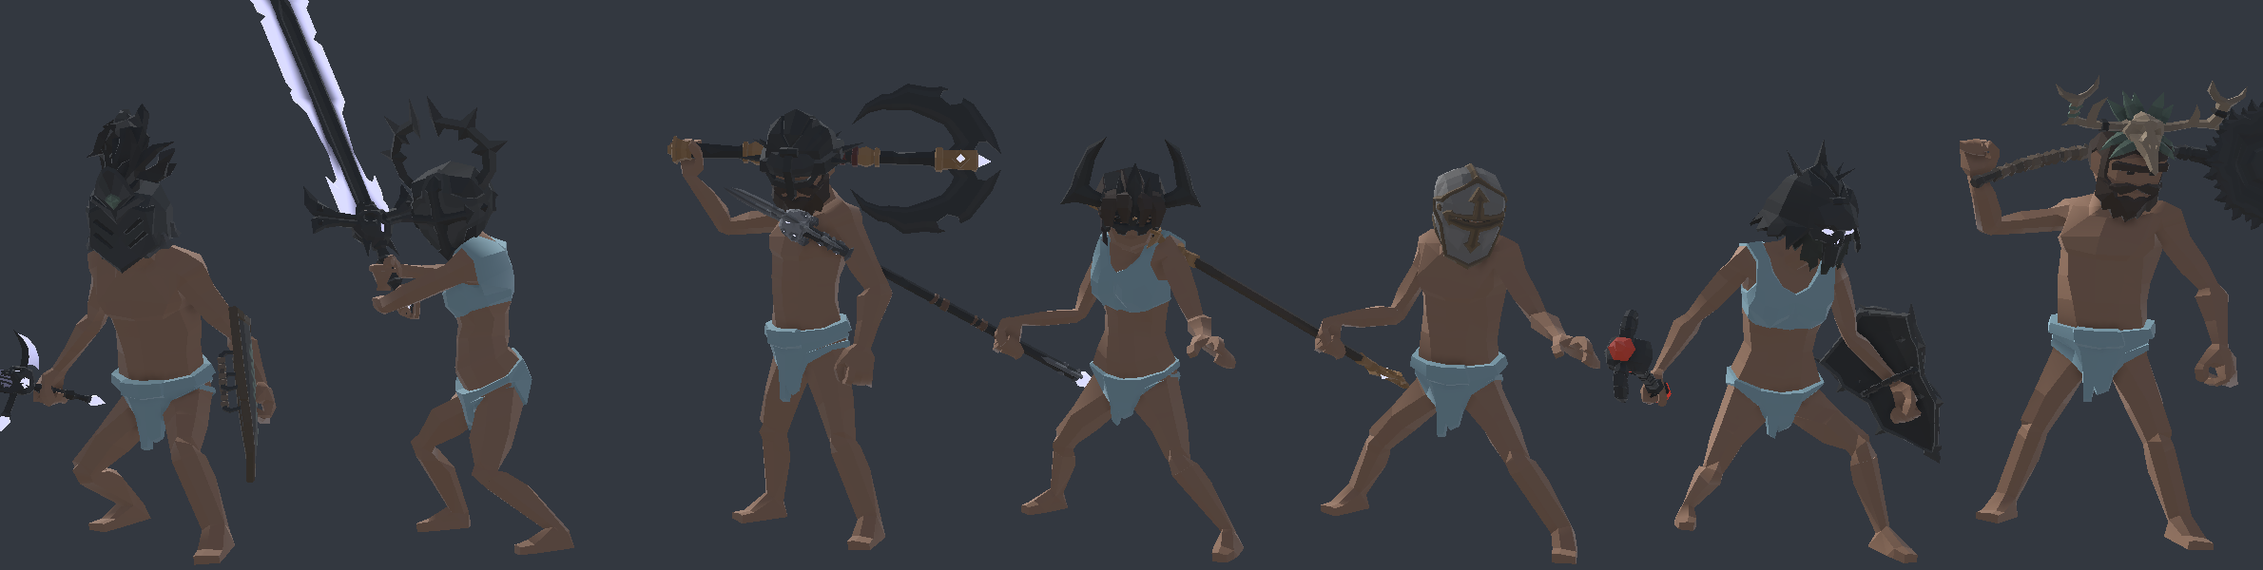
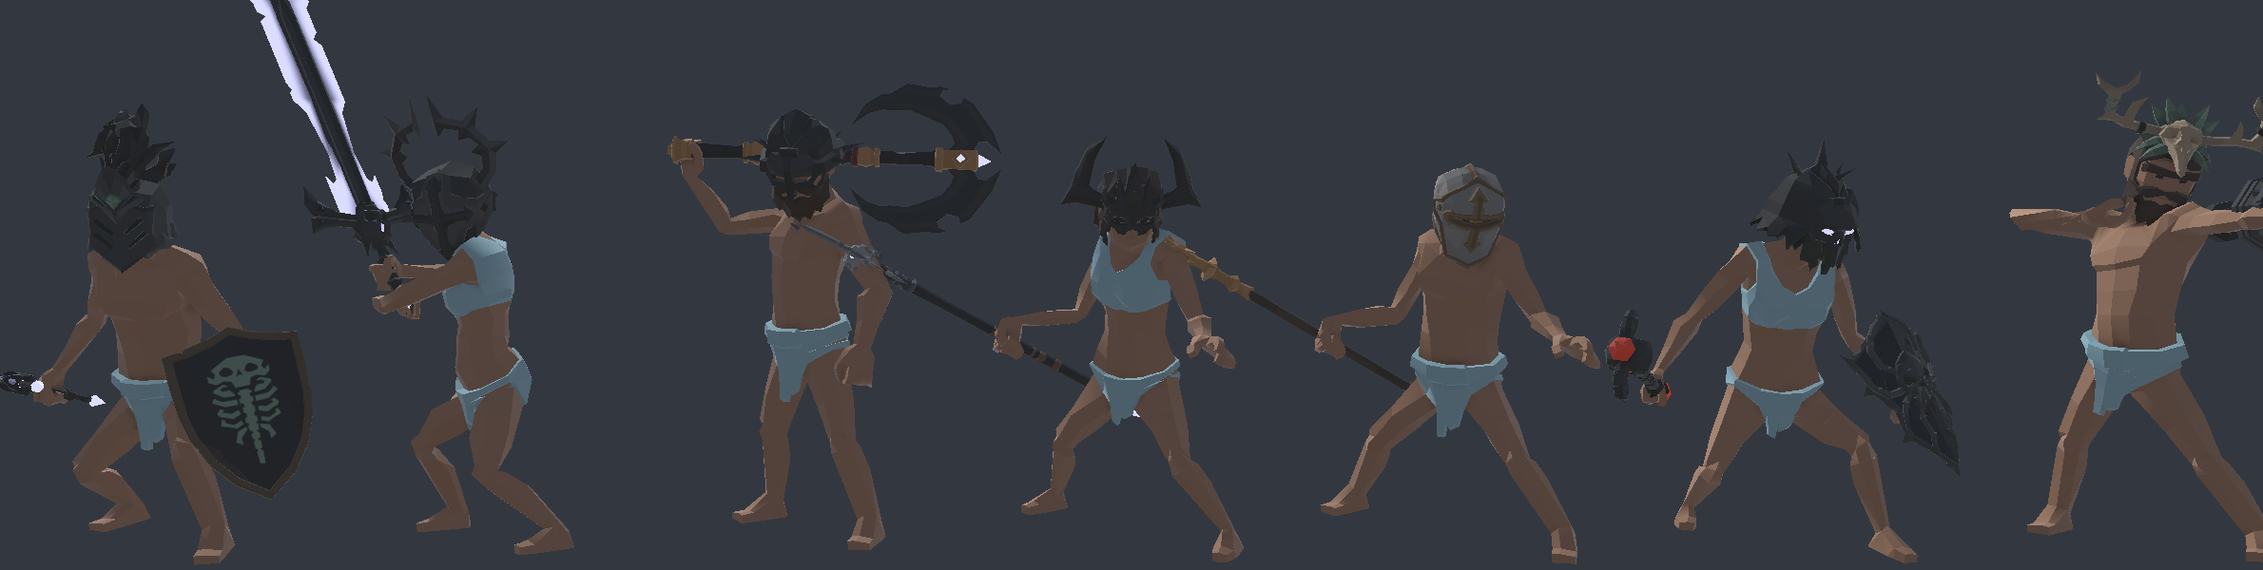
Docs: Dark Fortress round 2 (the shield fix, the four fortress bosses with names, moves, trophies and simulator numbers, the elites, the hand cannon's shot, the mirrored name tags were the capture), tower section 19, release notes and checklist, pictures

diff --git a/docs/dark-fortress-design.md b/docs/dark-fortress-design.md
@@ -19,8 +19,9 @@ Fit the pieces where they belong instead of one disconnected set:
   plus a few cosmetic finds.
 - **Weapons** fill a real gap in the weapon ladders (Atlarus at 400, Elder Bronze at 500) as a crafted **Dreadforged**
   set, and the rest are uniques: trophies of a tower boss and rare finds in the high dungeon and tower chests.
-- **Characters** become the undead of the tower's crypt and marsh floors, and the **Behemoth** becomes the floor 9
-  boss, the Gardener.
+- **Characters** become the undead of the tower's crypt and marsh floors and a few elites, and the bigger or odder ones
+  become the bosses of floors 4, 7, 8 and 9 (round 2, 2026-11-23: the Necromancer, the Colossus, the Plague Lord and
+  the Behemoth).
 
 ## 2. What became what
 
@@ -38,8 +39,12 @@ Stats follow the ladder of their type at their level, plus one fortress touch in
 | Dreadforged Battleaxe | Axe_01 | 2H axe | Attack 450 | 343 / 429 | armor penetration 6% | Crafting 463: 5 Atlarus, 2 Elder Iron |
 | Dreadforged Staff | Staff_02 | staff | Magic 450 | 390 / 390 | life steal 2% | Crafting 463: 4 Atlarus, 1 Elder Iron, 2 Shadowoak logs |
 | Dreadforged Shield | Shield_02 | shield | Defense 450 | 226 armor | thorns 4% | Crafting 464: 4 Atlarus, 1 Elder Iron |
-| Gardeners Bonesaw | Saw_01 | 2H axe | Attack 90 | 75 / 94 | poison 25% | the Gardener's trophy |
-| Rotreaper | Scythe_01 | staff | Magic 90 | 86 / 86 | poison 25% | the Gardener's trophy |
+| Bonewhistle Staff | Staff_01 | staff | Magic 40 | 34 / 34 | life steal 1.5% | Mortimer Bonewhistle's trophy (floor 4) |
+| Colossus Cleaver | Sword_02 | 2H sword | Attack 70 | 70 / 72 | armor penetration 5% | Big Gorp's trophy (floor 7) |
+| Keepward Shield | Shield_01 | shield | Defense 70 | 50 armor | thorns 3% | Big Gorp's trophy (floor 7) |
+| Blightbone Staff | Staff_02 | staff | Magic 80 | 78 / 78 | poison 25% | Lord Pestilus's trophy (floor 8) |
+| Rotbelly Bonesaw | Saw_01 | 2H axe | Attack 90 | 75 / 94 | poison 25% | Old Rotbelly's trophy (floor 9) |
+| Rotreaper | Scythe_01 | staff | Magic 90 | 86 / 86 | poison 25% | Old Rotbelly's trophy (floor 9) |
 | Skullcrusher | Club_01 | 1H (axe slot) | Attack 300 | 150 / 170 | crit damage 15% | dungeon/tower chests, tier 3, Slayer 30 |
 | Fortress Hand Cannon | Cannon_01 | bow | Ranged 500 | 470 / 480 | crit chance 5% | chests, tier 4, Slayer 50 |
 | Gravebloom Warhammer | Hammer_01 | 1H (axe slot) | Attack 650 | 357 / 404 | poison 35% | chests, tier 4, Slayer 65 |
@@ -53,8 +58,13 @@ The chest finds are `ItemDrop` rows with a weight of 0.01 (most drops are 0.05),
 from chests of tier 3 and up (the harder dungeons, tower floors 10 and up), a tier 4 find only from tier 4 chests (the
 hardest dungeons, tower floors 13 and up); the Slayer level keeps them from characters far below them.
 
+The trophies share their models with high level pieces (the pack has sixteen weapons): the Bonewhistle Staff is the
+Batwing Staff's model, the Colossus Cleaver the Dreadforged Cleaver's, the Keepward Shield the Spiked Bulwark's, the
+Blightbone Staff the Dreadforged Staff's.
+
 **Odd ones.** The **Hand Cannon** is a bow: held in the off hand it points down at rest and straight at the enemy
-when the bow is drawn, and it still shoots arrows (its description says so; the Bananarang does the same). The **saw**
+when the bow is drawn. Since round 2 it fires a cannonball, not an arrow (`CannonShot`, see "The hand cannon's shot"
+below), and its description says so ("Feed it arrows and they come out round"). The **saw**
 is a two handed axe, the **scythe** a staff (a reaper's scythe for casters). **Shield_03** is not used: it is the same
 model as Shield_02. Nothing was skipped for not fitting a weapon type.
 
@@ -63,6 +73,16 @@ attack poses of its type, next to the existing weapons of that type (the 1H axe,
 bow prefabs as reference), and seen in play on floor 9 of the tower. Scales: one handed about 0.9 to 1.15 m, two
 handed 1.4 to 1.7 m, staffs 1.75 to 1.9 m. Maces, the hammer, the battleaxe and the saw hold their grip, not their
 pivot (a child `Model` moved along the haft); the staffs are held about a third of the way up, as the game's staffs.
+
+**Shields, round 2.** The first fit used the rotation of the game's own shields, and in the one handed idle (the stance
+the game uses with a shield, Armed-Idle) the long dark kite shields hung edge-on below the hand, away from the forearm
+(docs/mockups/dark-fortress-weapons.png). The game's round shields hang the same way, but the long ones read as not
+held. Both Dark Fortress shields (the Dreadforged Shield and the Spiked Bulwark, the Keepward Shield with it) are now
+turned 90 degrees about the forearm so the face is in front of the arm, and moved out along the face and down the
+kite so the hand holds them from behind instead of through them; checked on male and female in the idle, the shield
+idle and a sword attack, and in play (docs/mockups/dark-fortress-shields.png). The **Dreadforged Sword**'s crescent
+guard now stands up and down: flat, it cut into the thigh in the idle. Every other weapon was checked again in its
+type's idle and attack from the front and the side next to the game's own: they sit as the game's do.
 
 ### Head pieces
 
@@ -85,7 +105,8 @@ Class gear (`GameData.ClassGear.cs`, a third head piece "head3" from a tier on, 
 23 items. Their model ids are empty: a game before 0.9.7 has no such prefab and shows no head piece for them.
 
 Cosmetic (category Cosmetic, worn over everything like the Santa Hat): **Thorn Crown** (Crown_01) and **Grinning
-Skull** (Mask_04) from the tier 3 chests, and the **Plague Mitre** (Crown_02) as the Gardener's trophy.
+Skull** (Mask_04) from the tier 3 chests (the Grinning Skull is also Mortimer Bonewhistle's trophy), and the
+**Plague Mitre** (Crown_02, the Plague Lord's own) as Lord Pestilus's trophy.
 
 **Not used, and why:** Helmet_01 has an undead face and hair built in (it would put a ghoul's face on the player);
 Helmet_04 (bat wings) and Helmet_05 (fanged) are made for the Colossus's forward-tilted head and the top of a player's
@@ -107,15 +128,15 @@ The website's figure (`rf-character-gear.js`) does the same with the exported pr
 mask hides the head's parts, the hair is laid flat, the helmet switch hides the prop. The cosmetic crowns (Plague
 Mitre, Thorn Crown, Grinning Skull) are cosmetics like the Santa Hat and do not lay the hair flat.
 
-## 3. Enemies and the test boss
+## 3. Enemies and bosses
 
 `tools/dark-fortress/dark-fortress-enemies.cs` makes one prefab per kind in `Assets/World/Enemies/DarkFortress` and one
 `EnemyDefinitionAsset` per kind (`df-*.asset`): MainWorld's Ravebridge skeleton (its EnemyController, movement,
 colliders and the Humanoid Enemy animator) with the skeleton's bodies taken out and a Dark Fortress character put in,
 its avatar on the animator. The humanoid enemy animations (idle, run, unarmed attack, get hit, death, cheer) play on all
 of them, the Behemoth's bigger skeleton (BR_CharactersAvatar) included; checked in poses and in play.
-`dark-fortress-templates.cs` puts them into the tower layouts' hidden templates (the crypt and marsh builders do the same
-when they rebuild).
+`dark-fortress-templates.cs` puts them into the tower layouts' hidden templates (the crypt, marsh and overgrown builders
+do the same when they rebuild).
 
 | Model id | Character | Name in the tower | Floors | Level | Style |
 |---|---|---|---|---|---|
@@ -125,29 +146,72 @@ when they rebuild).
 | df-plague | Plague_01 | Plague Walker | 8 | floor + 1 | melee, 1.1 s |
 | df-corpse | Corpse_01 | Shambling Corpse | 9 | floor - 1 | melee, 1.3 s |
 | df-wraith | Wraith_01 | Crypt Wraith | 9 | floor + 1 | magic, 1.4 s |
-| df-behemoth | Behemoth_01 | The Gardener (boss) | 9 | the boss's | magic, poison |
+| df-apothecary | Apothecary_01 | Bog Apothecary (elite) | 3 | floor + 1 | magic, 1.3 s |
+| df-barbarian | Barbarian_01 | Antlered Reaver (elite) | 5 | floor + 2 | melee, 1.1 s |
+| df-inquisitor | Inquisitor_01 | Fallen Inquisitor (elite) | 10 | floor + 3 | magic, 1.3 s |
+| df-necromancer | Necromancer_01 | Mortimer Bonewhistle (boss) | 4 | the boss's | magic |
+| df-colossus | Colossus_01 | Big Gorp, the Keep Colossus (boss) | 7 | the boss's | melee |
+| df-plague-lord | Plague_Lord_01 | Lord Pestilus (boss) | 8 | the boss's | magic, poison |
+| df-behemoth | Behemoth_01 | Old Rotbelly (boss) | 9 | the boss's | magic, poison |
 
 Their numbers come from the floor (level, power, armor, the band's element), as every tower monster's, so the floors
 are as hard as before; the offsets are those of similar monsters (the red Metalon is +4). What changed in
 `RavenNest.Combat/Tower.cs`:
 
-- Floor 4, Hall of Bones: skeletons, Risen Dead and Risen Soldiers (quests: 40 skeletons, 30 Risen Dead).
+- Floor 3, The Nest: Bog Apothecaries join the green Metalons and goblins (quests unchanged).
+- Floor 4, Hall of Bones: Risen Dead, skeletons and Risen Soldiers (quests: 40 skeletons, 30 Risen Dead).
+- Floor 5, Thornwood: Antlered Reavers join the purple Metalons and goblins (quests unchanged).
 - Floor 7, Goblin Keep: Grave Knights join the goblins and skeletons (quests unchanged).
-- Floor 8, Blighted Grove: red Metalons, Plague Walkers and purple Metalons (quests: 40 red Metalons, 40 Plague Walkers).
+- Floor 8, Blighted Grove: Plague Walkers, red Metalons and purple Metalons (quests: 40 red Metalons, 40 Plague Walkers).
 - Floor 9, The Deep Roots: Shambling Corpses, Crypt Wraiths and red Metalons (quests: 45 corpses, 45 wraiths).
+- Floor 10, The Verdant Throne: Fallen Inquisitors join the red and purple Metalons (quests unchanged).
 
-**The Gardener is the Behemoth now** (it was a skeleton made 2.8 times bigger): the same fight, numbers and line
-("Everything grows. Even you, in time."): magic, poison, a spit every 4 swings, help at two thirds and one third (three
-Shambling Corpses each time), the slam, the enrage. Scale 2.3, about twice a player's height (1.5 looked like a big
-player, checked in play). Its intro taunt is Cheer3 (`tools/tower/tower-boss-taunts.cs`; Resources/Tower/Boss Taunts
-was remade). The Colossus was not needed: the Behemoth plays the animations well.
+**The bosses** (band 1; each reuses the tower's boss moves: help called at shares of its health, the slam ring, the
+marked spit circle, the enrage). The smaller, odder looking characters (Inquisitor, Barbarian, Apothecary) are elites
+on the floors; the big or unique ones are bosses. Each boss slot they took was a reused look before (a big skeleton, a
+big goblin, a big Metalon), so band 1 keeps its bunny, goblin, Metalon, cow and dragon bosses on the other floors.
 
-**Trophies** (`TowerBoss.Trophies`, new): on the stream's first clear of the floor, each player who fought has a 1 in
-4 chance (`TowerLoot.TrophyChance`) of one of the boss's trophies: the Gardener gives the Gardeners Bonesaw, the
-Rotreaper or the Plague Mitre (`GameManager.RollTowerTrophies`). Any boss can get trophies by naming Dark Fortress items.
+| Floor | Boss | Was | Fight | Line | Trophies |
+|---|---|---|---|---|---|
+| 4 Hall of Bones | **Mortimer Bonewhistle**, the Necromancer, scale 2.2 | the Rootbound King | a caster; raises three Risen Dead at three quarters, half and a quarter of its health; a spit every 5 swings; no slam | "Rise, my darlings. Supper has arrived." | Bonewhistle Staff, Grinning Skull |
+| 7 Goblin Keep | **Big Gorp, the Keep Colossus**, scale 2.4 | King Grubnose the Second | slow, heavy swings (3 s); a ground slam every third swing; the keep's goblins (four) come at half its health | "King Grubnose says: no visitors." | Colossus Cleaver, Keepward Shield |
+| 8 Blighted Grove | **Lord Pestilus**, the Plague Lord, scale 2.3 | Redshell the Blighted | a caster of poison (60%); a poison cloud (the marked spit circle, 1.3 times a hit) every third swing; Plague Walkers at half its health | "Breathe deep, little ones. It is good for you." | Plague Mitre, Blightbone Staff |
+| 9 The Deep Roots | **Old Rotbelly**, the Behemoth, scale 2.3 | the Gardener (a big skeleton) | unchanged since round 1: magic, poison, a spit every 4 swings, Shambling Corpses at two thirds and one third | "Fresh compost! Come closer. Closer." | Rotbelly Bonesaw, Rotreaper |
 
-Not made (yet): Inquisitor, Necromancer, Apothecary, Barbarian, Colossus and Plague Lord as enemies or mini bosses.
-They are one row each in the enemy builder; the Plague Lord and the Colossus would make good band bosses.
+Their numbers were set with the simulator's `tower` scenario so the floors stay about as hard as with the bosses they
+replaced (five players at the floor's level, win rate old to new): floor 4 77% to 67%, floor 7 72% to 85%, floor 8
+10% to 15%; floor 9 is unchanged. Scales were checked in play: at 1.5 to 2.0 they read as big players. Intro taunts:
+Cheer2 (Necromancer), Cheer3 (Colossus, Behemoth), Cheer1 (Plague Lord) in `tools/tower/tower-boss-taunts.cs`.
+
+**Trophies** (`TowerBoss.Trophies`): on the stream's first clear of the floor, each player who fought has a 1 in 4
+chance (`TowerLoot.TrophyChance`) of one of the boss's trophies (`GameManager.RollTowerTrophies`). Any boss can get
+trophies by naming Dark Fortress items.
+
+Not used as enemies: the Knight's body armor is the armor test cut; the Colossus's and Behemoth's bigger skeletons play
+the humanoid animations as well as the others.
+
+### The hand cannon's shot
+
+`CannonShot` (Game/Combat), called where the ranged attack's arrow is shot (`EffectHandler.ShootRangedProjectile`):
+when the ranged weapon in the hand is a cannon (its prefab path), no arrow flies. Instead:
+
+- a flash (a short burst of orange sparks) and a puff of grey smoke at the muzzle (the end of the barrel that points
+  at the target), and the cannon kicks back 12 cm along the barrel and settles in 0.18 s;
+- a boom: `SoundKind.CannonShot`, two clips in Assets/Sounds/Effects/CannonShot made from the Environment Sounds pack's
+  thunder with a rock impact on the attack (ffmpeg, nothing downloaded; local like the other effect sounds);
+- an iron ball (the cannon's own material) flies in a low arc to the target;
+- where it lands, a puff of dust and the pack's rock impact.
+
+The hit itself is the bow's as before (the arrow was only a picture too). The flash, smoke and dust follow the Weapon
+effects setting and potato mode like the weapons' element effects; the ball and the sounds stay. Particle systems are
+made once per player and emitted in bursts. Checked in play (docs/mockups/dark-fortress-cannon.png).
+
+### Mirrored name tags (round 2)
+
+The backwards name tags in the first boss capture came from the capture, not the game: name tags turn to the game
+camera every frame (`NameTag`, `GameCamera.Rotation`), and that capture was rendered by a second camera from the
+other side. In the game's own view (and in captures from the game camera's side, as all round 2 captures are) they
+read the right way. Nothing changed in the game for it.
 
 ## 4. Icons and the website
 
@@ -176,17 +240,28 @@ Inquisitor Helm and the horned skull in its place; the Dreadforged Sword, Cleave
 Hellhorn Mace in a fight); all enemies on tower floor 9 (idle, walking, attacking, getting hit, dying) and a full boss fight
 against the Gardener with four bots (slam ring, poison spit, adds, it fell); the icons; the server makes all 42 items.
 
-Not checked: a real clear of floor 9 (the trophy roll on the server, only its rule is tested), crafting a Dreadforged
-piece, a chest drop, the website figure in a browser (the export and the script are done), the cosmetic crowns over
-big hair styles, floors 4, 7 and 8 in play.
+Round 2 (2026-11-23), played with the dev character and four bots: full fights against Mortimer Bonewhistle (Risen
+Dead raised at each share), Big Gorp (slam rings, goblins at half health) and Lord Pestilus (Plague Walkers at half
+health), each to the boss's fall; the new monsters and elites spawning and fighting on floors 3, 4, 5, 7, 8 and 10;
+the hand cannon firing (flash and smoke at the muzzle, the ball, the dust where it lands); the Dreadforged Sword and
+Shield in a fight; the shields and every weapon again in the fit renders.
 
-Pictures: docs/mockups/dark-fortress-weapons.png (held in idle poses, with head pieces), -heads.png (every head piece
-on male and female heads), -icons.png, -enemies.png, -crypt.png and -boss.png (in play, the Gardener with the poison
-ring under a player), -in-play.png (the dev character: Inquisitor Helm, horned skull, Fortress Helm).
+Not checked: a real clear (the trophy roll on the server, only its rule is tested; the dev stream is on floor 6, so
+every boss fight was a training attempt), the boom heard (the clips were measured, not listened to: -13 LUFS, a little
+louder than the bow), crafting a Dreadforged piece, a chest drop, the website figure in a browser (the export and the
+script are done), the cosmetic crowns over big hair styles.
+
+Pictures: docs/mockups/dark-fortress-weapons.png (held in idle poses with head pieces, the shields as fixed in round
+2), -shields.png (the shield fix: fit renders and in play), -heads.png (every head piece on male and female heads),
+-icons.png, -enemies.png and -enemies-2.png (every character as an enemy), -elites.png, -crypt.png, -boss.png (Old
+Rotbelly), -necromancer.png, -colossus.png, -plague-lord.png, -cannon.png (flash, smoke, impact), -in-play.png (the
+dev character: Inquisitor Helm, horned skull, Fortress Helm).
 
 ## 7. Calls for Zerratar
 
-- The Gardener kept its name, line and numbers with the Behemoth's body. A new name ("The Rot Behemoth") is one line.
+- The bosses' names and lines (Mortimer Bonewhistle, Big Gorp, Lord Pestilus, Old Rotbelly) are one line each.
+- Three band 1 bosses with reused looks gave their slots to fortress bosses (the Rootbound King, King Grubnose the
+  Second, Redshell the Blighted); they could come back on later floors.
 - Uniques are rare (weight 0.01 in the chest table) and trophies 1 in 4 per fighter on the first clear only.
 - Dreadforged at level 450 fills the Atlarus to Elder Bronze gap; another set at a higher gap is easy to add.
-- The Hand Cannon is a silly bow; it can go if it is too silly.
+- The Hand Cannon stays (Zerratar: "does it have proper projectile effects and stuff? :D"): it does now.

diff --git a/docs/tower-design.md b/docs/tower-design.md
@@ -552,14 +552,21 @@ and by the crypt and marsh builders), on the humanoid enemy animations.
 - Floor 4: Risen Dead and Risen Soldiers beside the skeletons. Floor 7: Grave Knights (the pack's Knight, floor + 3)
   with the goblins and skeletons. Floor 8: Plague Walkers with the red and purple Metalons. Floor 9: Shambling Corpses
   and Crypt Wraiths with the red Metalons. Quests on 4, 8 and 9 name the new monsters.
-- **The Gardener (floor 9) is the Behemoth**, at scale 2.3, with its fight, numbers and line unchanged. Its help is
-  three Shambling Corpses. Intro taunt Cheer3.
+- **Four band 1 bosses are Dark Fortress characters** (round 2, same day), each in a slot that had a reused look:
+  floor 4 **Mortimer Bonewhistle** (the Necromancer, raises Risen Dead three times; was the Rootbound King), floor 7
+  **Big Gorp, the Keep Colossus** (a ground slam every third swing, goblins at half health; was King Grubnose the
+  Second), floor 8 **Lord Pestilus** (the Plague Lord, poison clouds every third swing, Plague Walkers; was Redshell
+  the Blighted), floor 9 **Old Rotbelly** (the Behemoth, the Gardener's fight and numbers). Numbers set with the
+  simulator so the floors stay about as hard; the table is in docs/dark-fortress-design.md.
+- Elites: Bog Apothecary (floor 3), Antlered Reaver (floor 5, the overgrown layout has its template), Fallen
+  Inquisitor (floor 10).
 - **Trophies**: a boss can name items of its own (`TowerBoss.Trophies`); on the stream's first clear each fighter has
-  `TowerLoot.TrophyChance` (1 in 4) of one. The Gardener's: Gardeners Bonesaw, Rotreaper, Plague Mitre.
+  `TowerLoot.TrophyChance` (1 in 4) of one. Floor 4: Bonewhistle Staff, Grinning Skull; 7: Colossus Cleaver, Keepward
+  Shield; 8: Plague Mitre, Blightbone Staff; 9: Rotbelly Bonesaw, Rotreaper.
 
-Played on floor 9 with the dev character and four bots: the new monsters fight, get hit and fall; the Gardener's
-slam, spit, adds and fall work. A real clear of floor 9 (the server's trophy roll) and floors 4, 7 and 8 were not
-played.
+Played with the dev character and four bots: floor 9 (round 1) and full fights against the Necromancer, the
+Colossus and the Plague Lord (their help, slam and spit), and the new monsters on floors 3, 4, 5, 7, 8 and 10. A real
+clear (the server's trophy roll) was not played: the dev stream is on floor 6, so these were training attempts.
 
 ## Open questions
 

diff --git a/docs/releases/v0.9.7.0a-alpha.md b/docs/releases/v0.9.7.0a-alpha.md
@@ -178,7 +178,8 @@ New weapons, shields and helmets from a dark fortress:
   morningstar, a cleaver, a battleaxe, a staff and a shield. Each has a little extra, such as life steal or thorns.
 - **Rare finds** in the hardest dungeon and tower chests: the Soulreaver, the Hellhorn Mace, the Gravebloom Warhammer,
   the Batwing Staff, the Sunstaff of the Inquisitor, the Spiked Bulwark, the Skullcrusher and the Fortress Hand Cannon
-  (it shoots arrows, somehow). Two cosmetic finds too: the Thorn Crown and the Grinning Skull.
+  (a bow that fires cannonballs, with a muzzle flash, smoke and a boom). Two cosmetic finds too: the Thorn Crown and the
+  Grinning Skull.
 - **New helmets for the high tiers of six gear lines**: the Fortress Helm (Dark Knight), Closed Helm (Paladin),
   Inquisitor Helm (Witch Hunter), Kettle Helm (Melee), Antler Crown (Barbarian) and Lich Crown (Mage). They work with
   transmogrification like any head piece.
@@ -203,9 +204,10 @@ character far below a floor's level is told so on the way in. Floors 1 to 30 are
 - **Tower votes need one voice.** When the streamer is away, one `!tower boss`, `!tower climb` or `!tower floor 7`
   from a player inside opens a vote that passes a minute later, or at once when most of the players who are at their
   keyboards vote too (idle players do not count). `!tower close` still takes most of them.
-- **The crypt has new dead:** Risen Dead, Grave Knights, Plague Walkers, Shambling Corpses and Crypt Wraiths, and the
-  Gardener of floor 9 has grown into a hulking rot Behemoth. Beat it on your stream's first clear for a chance at
-  its own weapons and hat.
+- **The dark fortress moved into the first floors:** Risen Dead, Grave Knights, Plague Walkers, Shambling Corpses,
+  Crypt Wraiths and a few elites, and four new bosses: Mortimer Bonewhistle the Necromancer (floor 4), Big Gorp the
+  Keep Colossus (floor 7), Lord Pestilus the Plague Lord (floor 8) and Old Rotbelly the Behemoth (floor 9). Beat one
+  on your stream's first clear for a chance at its own weapon, shield or hat.
 - **A tower panel on screen** while anyone is inside: the floor, its quests and their progress, the boss countdown, the
   boss's health in a fight, the town between floors, and what to type next.
 - **Streamers who do not want it:** Settings > Game > World > Tower open to chat.

diff --git a/docs/releases/v0.9.7.0a-checklist.md b/docs/releases/v0.9.7.0a-checklist.md
@@ -24,10 +24,11 @@ Nothing here is deployed yet: until the release, v0.9.7 work runs on the local s
   - [ ] **attachments**: a tier 6 or higher set shows its plume, wings, belt parts and (with the cape hidden) its
         cloak or pack; the helmet toggle hides the head attachments with the helm
   - [ ] **Dark Fortress** (docs/dark-fortress-design.md): a Fortress Helm, Lich Crown and Antler Crown on, the helmet
-        toggle hides and shows them; craft a Dreadforged piece; a clear of floor 9 against the Gardener (the
-        Behemoth) and its trophies; floors 4, 7 and 8 with the new monsters; the website figure holding a Dreadforged
-        weapon and wearing a fortress head piece
-  - [ ] the build machine has the POLYGON Dark Fortress pack and the DarkFortress prefabs in Resources (not in git)
+        toggle hides and shows them; craft a Dreadforged piece; real clears of floors 4, 7, 8 and 9 against the
+        fortress bosses and their trophies; the Fortress Hand Cannon's shot (flash, smoke, boom, impact) with Weapon
+        effects on and off; the website figure holding a Dreadforged weapon and shield and wearing a fortress head piece
+  - [ ] the build machine has the POLYGON Dark Fortress pack, the DarkFortress prefabs in Resources and the CannonShot
+        sounds with the sound library rebuilt (none of them in git)
   - [ ] `!toggle cape`: hides a personal cape and a clan cape, the armor's back piece shows instead, the choice is
         still there after rejoining; `!toggle cape` again brings the cape and its clan logo back
   - [ ] tower votes: one `!tower boss` from a viewer starts the fight a minute later; a second active viewer

diff --git a/docs/releases/v0.9.7.0a-alpha-discord.md b/docs/releases/v0.9.7.0a-alpha-discord.md
@@ -10,7 +10,7 @@
 
 🗼 **The tower** - `!tower` takes you in. Clear each floor's quests, beat its boss, rest in the towns between. 30 floors to start, up through ice and above the clouds, and chat can vote on every choice when the streamer is away. With cutscenes!
 
-🏰 **Dark Fortress gear** - Dreadforged weapons to craft, rare fortress weapons in the hardest chests, new helmets for six gear lines, and a rot Behemoth on floor 9 with weapons of its own.
+🏰 **Dark Fortress gear** - Dreadforged weapons to craft, rare fortress weapons in the hardest chests (one is a hand cannon, and yes, it goes boom), new helmets for six gear lines, and four fortress bosses in the tower with trophies of their own.
 
 🐾 **Battle pets** - `!pets starter fox`, `bear` or `fawn`, `!tame` creatures you fight, hatch eggs with `!pets hatch`, and wake a pet you already own with `!pets wake raven`. Pets fight beside you, level up and evolve.
 
